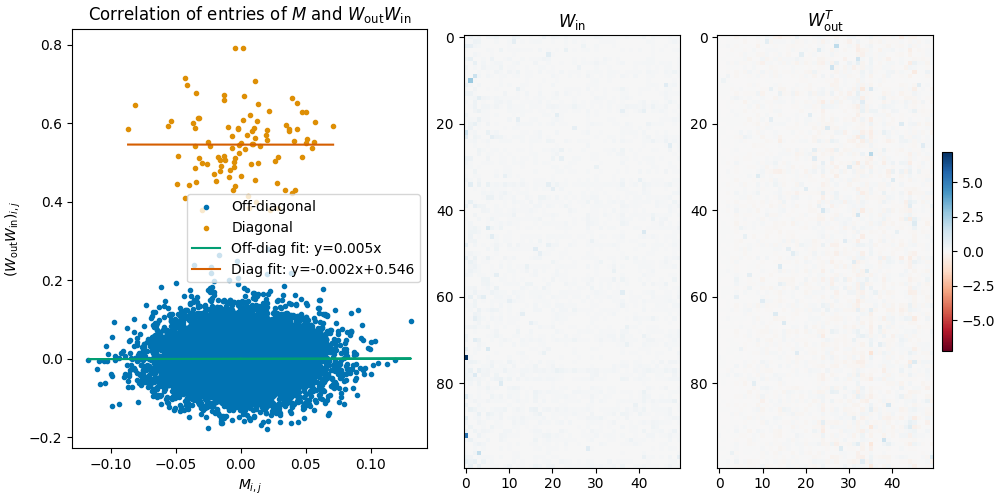
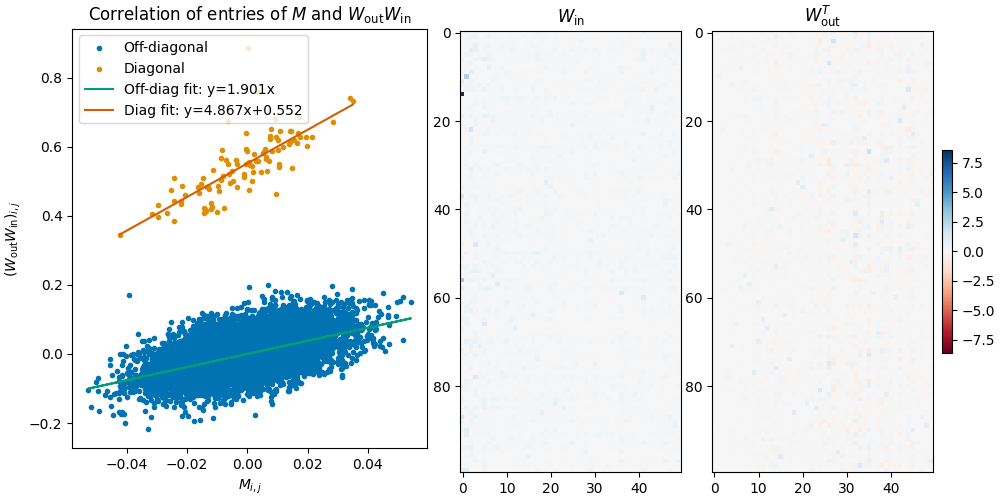
Compare semi-NMF model to its own mixing matrix in nb3c
The nb3c figure plotted the entries of W_out W_in of the semi-NMF model
fitted at scale 0.015 against noisy_dataset.Mscaled, a different random
mixing matrix (scale 0.03) that the semi-NMF model never saw. Keep the
dataset of each semi-NMF fit and compare models[4] to nmf_datasets[4].

Regenerated plots/nb3c_semi_nmf_WoutWin_Mscaled_plus_weights.png.

diff --git a/paper_code/nb3_svd_nmf.py b/paper_code/nb3_svd_nmf.py
@@ -175,6 +175,7 @@ plt.show()
 scales = []
 losses = []
 models = []
+nmf_datasets = []
 for scale in [0.0, 0.005, 0.008, 0.01, 0.015, 0.02, 0.03, 0.04]:
     noisy_dataset_nmf = NoisyDataset(
         n_features, p, device=device, exactly_one_active_feature=True, scale=scale
@@ -212,6 +213,7 @@ for scale in [0.0, 0.005, 0.008, 0.01, 0.015, 0.02, 0.03, 0.04]:
     scales.append(scale)
     losses.append(semi_nmf_noisy_loss)
     models.append(semi_nmf_model)
+    nmf_datasets.append(noisy_dataset_nmf)
 
 fig, ax = plt.subplots(constrained_layout=True, figsize=(6.4, 3))
 ax.plot(scales, losses, label="Semi-NMF solution", marker="o")
@@ -231,7 +233,7 @@ ax1 = fig.add_subplot(gs[0, 0])
 right_gs = gridspec.GridSpecFromSubplotSpec(1, 2, subplot_spec=gs[0, 1])
 ax2 = fig.add_subplot(right_gs[0, 0])
 ax3 = fig.add_subplot(right_gs[0, 1])
-compare_WoutWin_Mscaled(models[4], noisy_dataset, ax=ax1)
+compare_WoutWin_Mscaled(models[4], nmf_datasets[4], ax=ax1)
 models[4].plot_weights(axes=[ax2, ax3])
 ax2.set_title(r"$W_{\rm in}$")
 ax3.set_title(r"$W_{\rm out}^T$")
